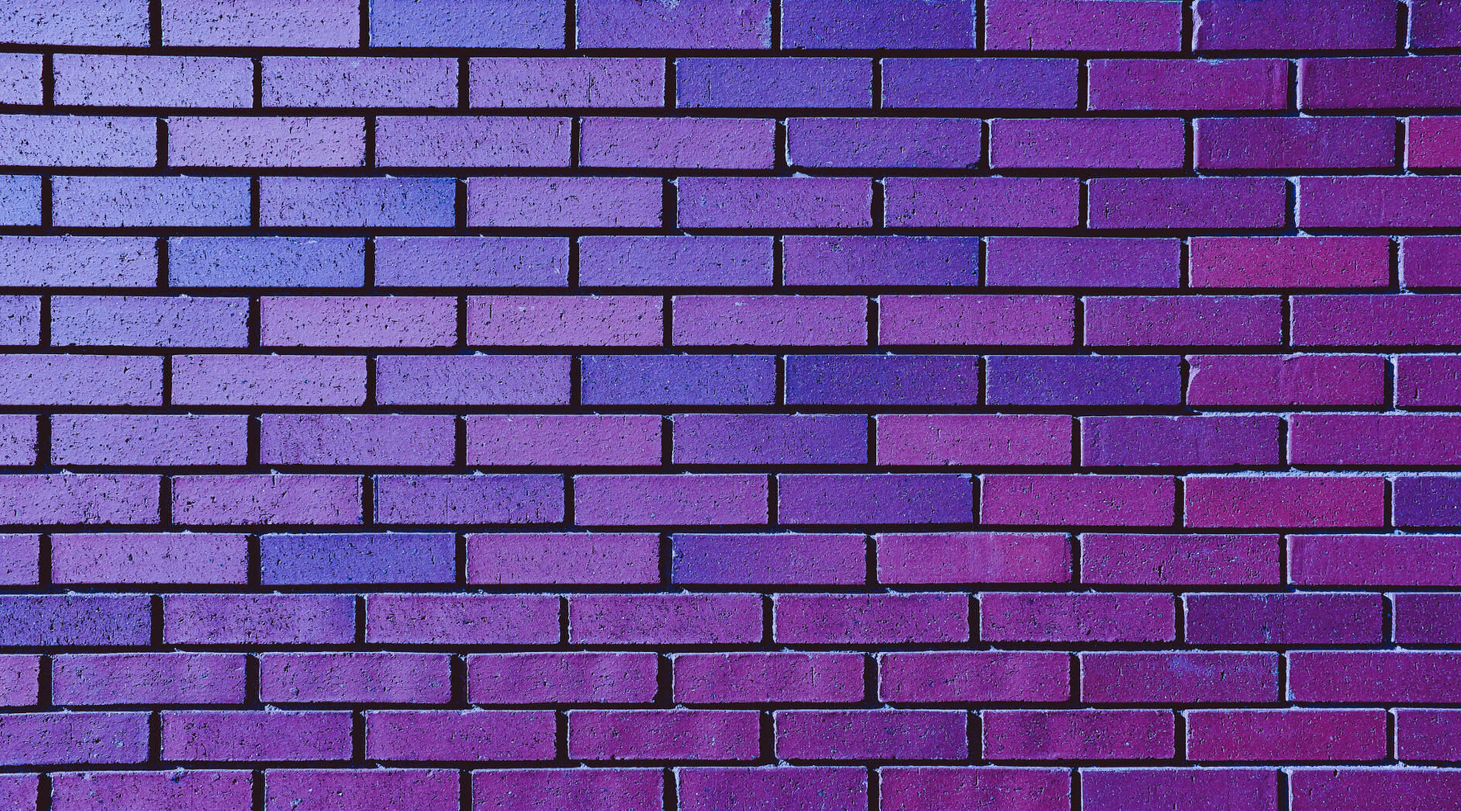
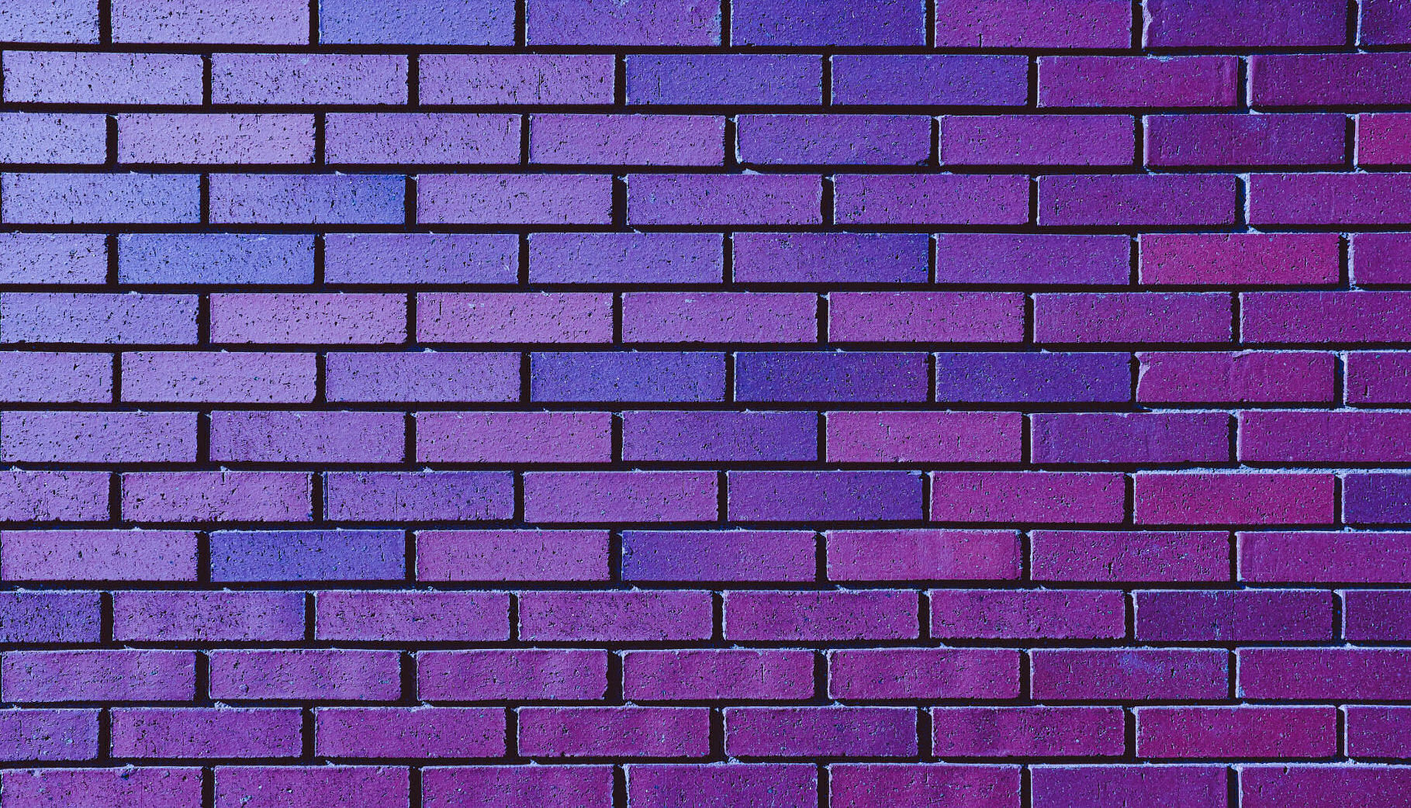
Repositioned headerLinks to be centered on screen, cropped dropdown background image
Repositioned headerLinks to be centered on screen, cropped dropdown background image to have a full brick start the row.

diff --git a/src/App.css b/src/App.css
@@ -31,6 +31,7 @@ a, a:active {color:#ee65a9!important;
 
   .topButton {min-height: 49px;
     text-align: right;
+    font-size: 14pt;
   min-width: 84px;}
 
 
@@ -49,13 +50,13 @@ a, a:active {color:#ee65a9!important;
   }
   
   #lastHeaderLink {position: fixed;
-  top: 75px;
+  top: 72px;
   font-weight: bold;
-left: 875px;
+left: 1073px;
 z-index: 9999;
 width: 250px;
   padding-top: 4px;
-  height: 42px;
+  height: 46px;
   color: #ffffff!important;
   text-shadow: -4px 0 #8b0785, 0 4px #f133de, 4px 0 #f133de, 0 -4px #f133de;
   font-size: 26pt;}
@@ -106,7 +107,7 @@ width: 250px;
       left: -2px;
       overflow-x: hidden;
       border-radius: 2px;
-    width: 255px;}
+    width: 253px;}
 
   
     .hamburgerDropdown {display: none;}
@@ -244,7 +245,6 @@ margin-right: auto;}
 
   .header {min-height: 122.5px;
     max-height: 15%;
-    background-size: (100vw);
     width: 100%;
     max-width: 100%;
     white-space: nowrap;
@@ -270,13 +270,13 @@ margin-right: auto;
   font-family: 'broadway', cursive;}
   
   .headerLinks {position: fixed;
-    left: 339px;
-    top: 75px;
+    left: 541px;
+    top: 72px;
   z-index: 9999;
   width: 250px;
   font-weight: bold;
   padding-top: 4px;
-  height: 42px;
+  height: 44px;
   color: #ffffff!important;
   text-shadow: -4px 0 #8b0785, 0 4px #f133de, 4px 0 #f133de, 0 -4px #f133de;
   font-size: 26pt;}
@@ -288,13 +288,13 @@ margin-right: auto;
   
   #firstHeaderlink {
    position: fixed; 
-   width: 256px;
-   top: 73.5px;
-   height: 44px;
-    left: 70px;}
+   width: 252px;
+   top: 71.5px;
+   height: 46px;
+    left: 274px;}
 
     #breakLink {position: fixed;
-    left: 605px;}
+    left: 807px;}
   
 
   .footer {position: absolute;
